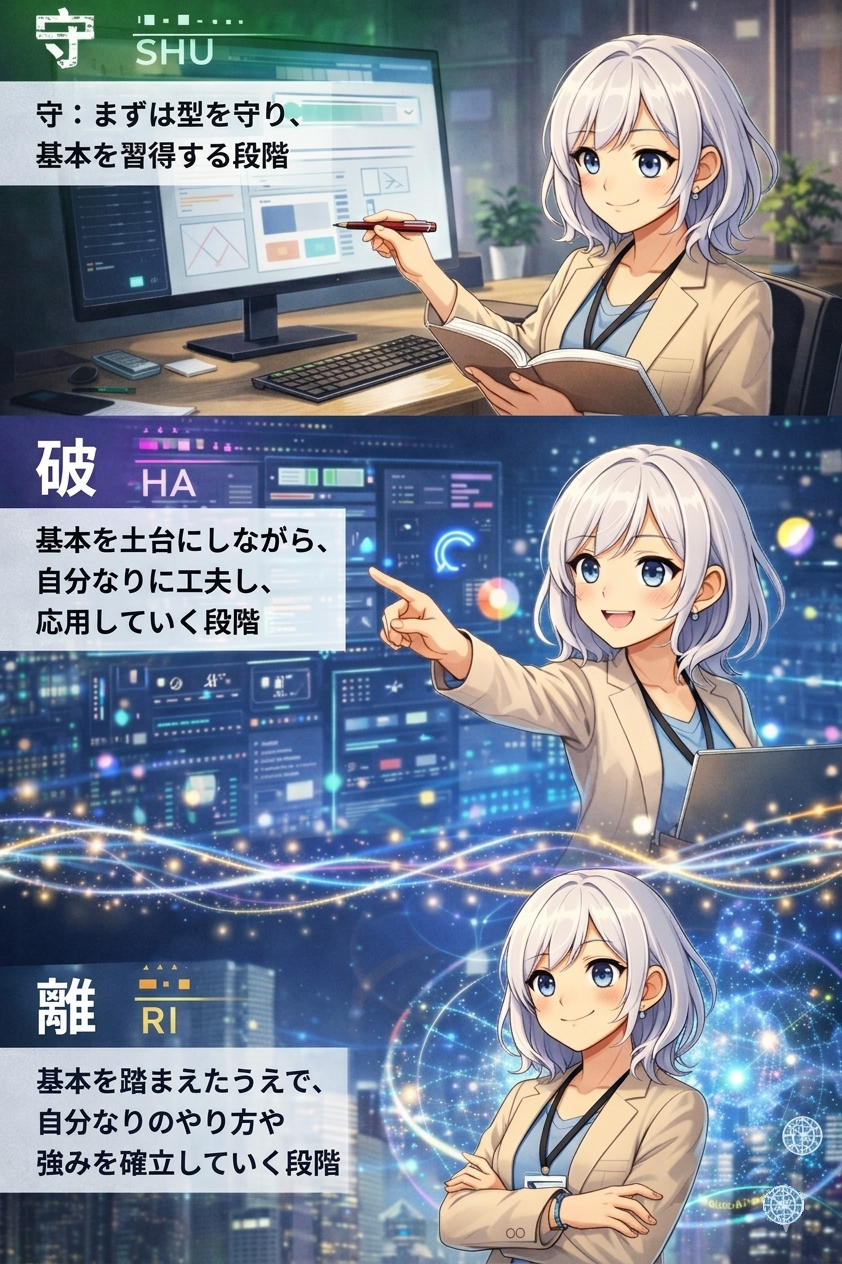
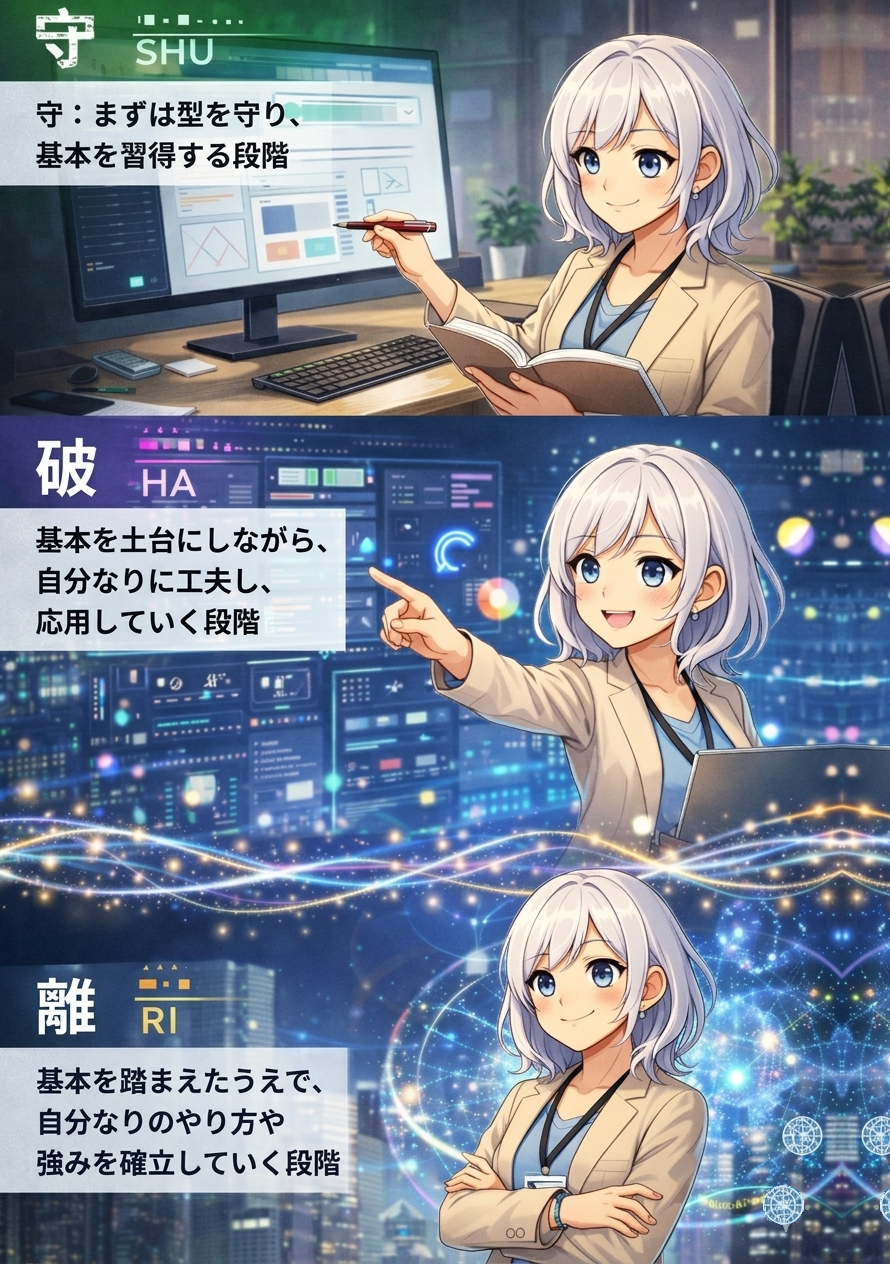
レイアウト調整、画像調整

diff --git a/chatgpt-support/mock-interview.html b/chatgpt-support/mock-interview.html
@@ -28,23 +28,50 @@
         </div>
       </header>
       <main class="slide-body stack">
-        <section class="content-grid support-detail-hero" aria-labelledby="detail-title">
+        <section class="content-grid support-detail-hero support-mock-interview-hero" aria-labelledby="detail-title">
           <div class="stack support-detail-stack">
             <article class="card">
               <h1 id="detail-title" class="section-title">3-4. ChatGPTと模擬面接を行う</h1>
-              <p class="text">ChatGPTを模擬面接官として使うことで、<br>
-                自分の答え方の傾向や詰まりやすいポイントを確認しやすくなります。<br>
-                受け答えを振り返りながら、自分の強みと課題を整理していきましょう。</p>
+              <p class="text">ChatGPTと模擬面接をして、自身を分析しましょう</p>
             </article>
+
+            <article class="card">
+              <h2 class="block-title">SWOT分析</h2>
+              <p class="text">SWOT分析とは自身の内部環境（強み・弱み）と外部環境（機会・脅威）を<br>
+                4つの視点（S・W・O・T）で整理し、戦略策定に役立てるフレームワークです。<br>
+                自身の【強み/機会】といったプラス要因をしっかりと把握し、<br>
+                【弱み/脅威】のマイナス要因の払拭をしていきましょう。<br>
+                そして面接においてプラス要因はとても大事ですが、<br>
+                マイナスの要因を自身の<strong>伸びしろ</strong>に変換してアピールできることが大事です。</p>
+            </article>
+
+            <article class="card">
+              <h2 class="block-title">WCV（キャリアの3要素）</h2>
+              <p class="text">自己調整学習（Will-Can-Value）の視点も大事です。<br>
+                ・Will：やりたいこと<br>
+                ・Can：できること<br>
+                ・Value：大切にしたい価値観（譲れない条件）<br>
+                この軸がしっかりしていないと企業側からは「この人はどこでもいいのかな」という人間にみられてしまいます。<br>
+                どんな人にも輝ける場所があり、そして譲ってはいけない価値観も大事に個を確立しましょう。</p>
+            </article>
+
             <article class="note">
-              <h2 class="block-title">ポイント</h2>
-              <p class="text">模擬面接のあとに、<br>
-                うまく答えられなかった質問や改善点をテキスト化して残しておくと、次の練習につなげやすくなります。</p>
+              <h2 class="block-title">学びを整理する考え方</h2>
+              <p class="text">職業訓練校での学びを整理する際は、<br>
+                単に「何を受講したか」を記録するだけでなく、<br>
+                「どのような段階で理解が深まっているか」<br>
+                という視点を持つことも有効です。<br>
+                その考え方の一つとして、<strong>守破離</strong>があります。</p>
+              <p class="text">守破離とは、学びや成長の過程を、次の3段階で捉える考え方です。<br>
+                ・守：まずは型を守り、基本を習得する段階<br>
+                ・破：基本を土台にしながら、自分なりに工夫し、応用していく段階<br>
+                ・離：基本を踏まえたうえで、自分なりのやり方や強みを確立していく段階</p>
             </article>
           </div>
-          <aside class="image-panel support-detail-visual" aria-label="模擬面接のイメージ">
+
+          <aside class="image-panel support-detail-visual" aria-label="守破離のイメージ">
             <div class="image-frame">
-              <img src="../image/インストラクターとデータ作成、面接.png" alt="模擬面接のイメージ">
+              <img src="../image/守破離girl.png" alt="守破離girl">
             </div>
           </aside>
         </section>

diff --git a/css/chatgpt-support.css b/css/chatgpt-support.css
@@ -121,6 +121,24 @@
   .support-reflection-note {
     grid-column: 1 / -1;
   }
+
+  .support-mock-interview-hero .support-detail-visual {
+    align-self: end;
+    height: auto;
+  }
+
+  .support-mock-interview-hero .support-detail-visual > .image-frame {
+    height: auto;
+  }
+
+  .support-mock-interview-hero .support-detail-visual img {
+    width: auto;
+    height: auto;
+    max-width: 100%;
+    max-height: 702px;
+    object-fit: contain;
+    object-position: center;
+  }
 }
 
 @media (min-width: 768px) and (max-width: 1023px) {
